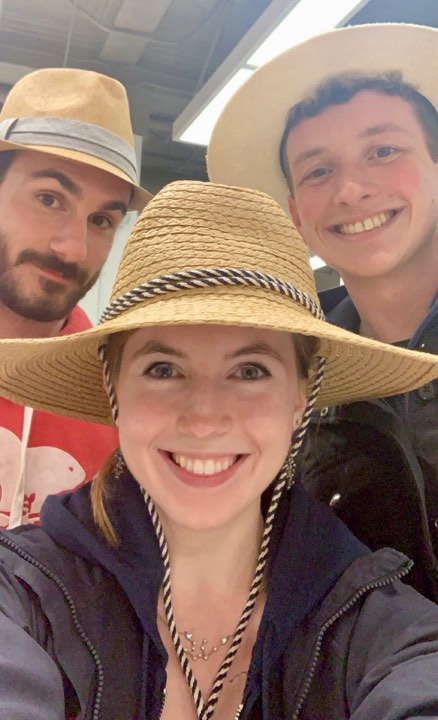
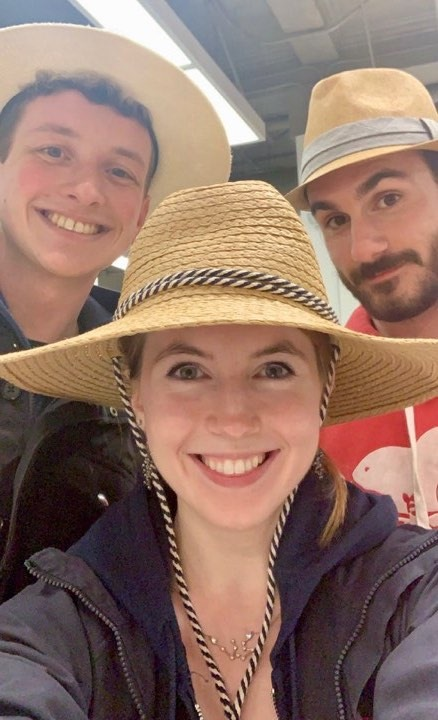
about-updates

diff --git a/about.html b/about.html
@@ -10,10 +10,11 @@
 
 </head>
 <body>
-  <div class='title'>
+  <div class='title about-title'>
     <h1>
       About Messier Rank
     </h1>
+    <a href="index.html" class="credit-button"> Back </a>
   </div>
 
   <div class="about-page-body">
@@ -31,10 +32,10 @@
 
     <img src="img/hats.jpg">
     <p>
-      We are Nicholas Mehrle (right), Kaley Brauer (center), and David Berardo (left), all graduate students at the MIT Kavli Institute for Astrophysics and Space Sciences. We all study astrophysics and spend our days attempting to unveil the secrets of the cosmos, and properly order the Messier Objects.
+      We are Nicholas Mehrle (left), Kaley Brauer (center), and David Berardo (right), all graduate students at the MIT Kavli Institute for Astrophysics and Space Sciences. We all study astrophysics and spend our days attempting to unveil the secrets of the cosmos, and properly order the Messier Objects.
 
       <br><br>
-      Nicholas works on characterizing exoplanet atmospheres, using the particular colors of light emitted from these planets to determine things like the temperature and composition of the atmospheres.
+      Nicholas works on characterizing exoplanet atmospheres, using the particular colors of light emitted from these planets to determine things like their temperature and composition. He hopes to develop the techniques to one day study the atmospheres of Earth like planets for signs of life.
 
       <br><br>
       Kaley uses computer simulations to answer questions about how the Milky Way galaxy came to be. She is interested in how smaller galaxies can merge together to form the Milky Way, and attempts to recreate the process on her computer.

diff --git a/messierStyle.css b/messierStyle.css
@@ -16,6 +16,7 @@ body {
   margin: 0 auto 20px;
   border-bottom: 3px solid #333;
   max-width: 80%;
+  text-align: center;
 }
 
 .title h1 {
@@ -253,13 +254,17 @@ body {
   .messier_label {
     font-size: 16px;
   }
-} 
+}
 
+.about-title {
+  padding-bottom: 10px;
+}
 
 .about-page-body {
   margin: 30px auto;
   max-width: 80%;
   line-height: 1.3;
+  text-align: justify;
 }
 
 .about-page-body h2 {
@@ -269,12 +274,13 @@ body {
 .about-page-body img {
   float: right;
   width: 300px;
-  margin-top: -50px;
+  margin-left: 15px;
+  /*margin-top: -50px;*/
+  /*margin-bottom: 50px;*/
 }
 
 @media screen and (max-width: 600px){
   .about-page-body img {
     margin-top: 0;
   }
-}
 }
